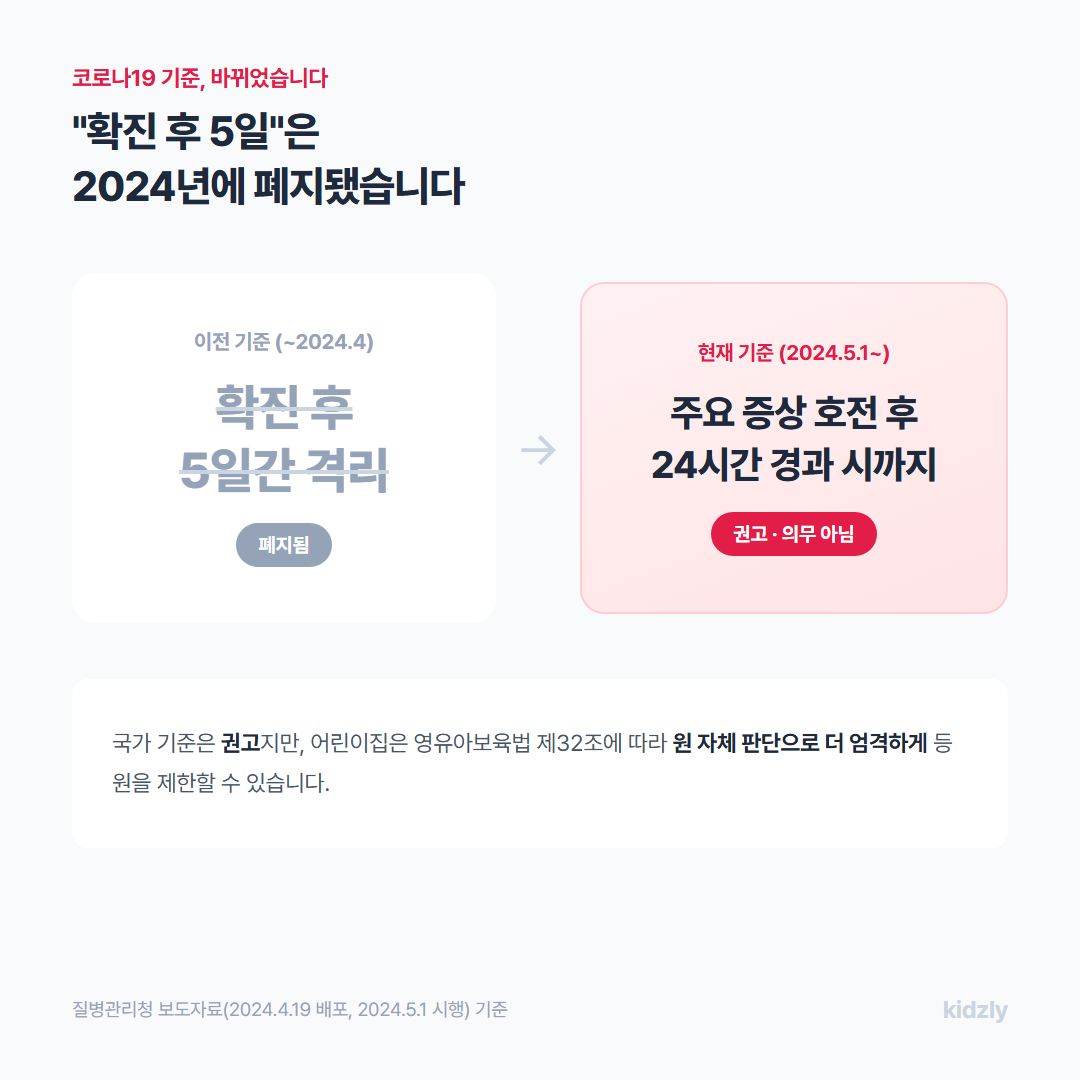
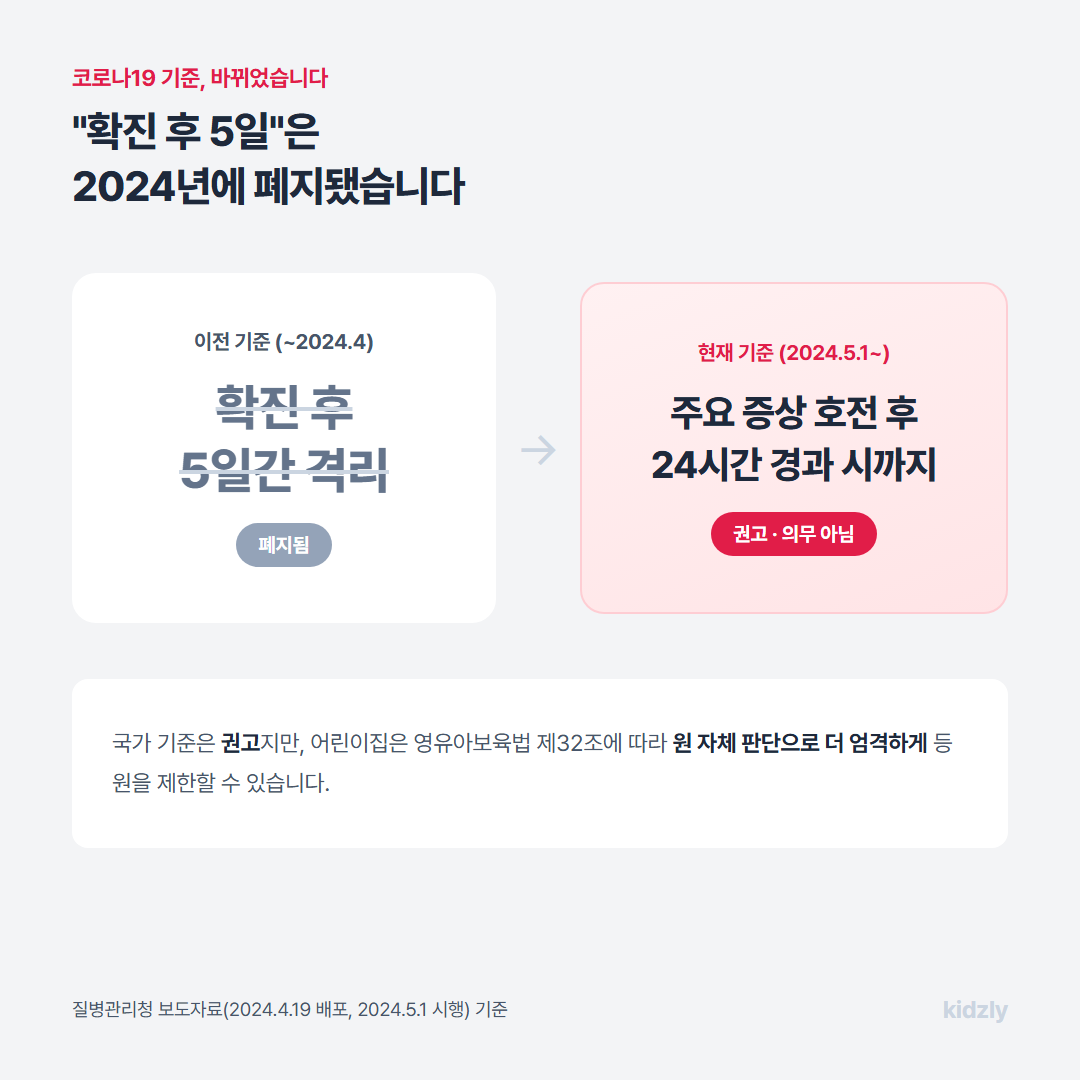
style(blog): 이미지 캔버스 배경을 gray-100으로 조정하고 캡션 명암비 개선
gray-50(#F9FAFB)은 흰색과 밝기 차이가 2%뿐이라 화면·밝기 설정에 따라
이미지 경계가 보이지 않았다. gray-100(#F3F4F6)으로 올려 카드와 표가
하나의 패널로 읽히게 했다.

배경을 올리면서 보조 텍스트 명암비를 함께 점검해 미달 항목을 고쳤다.
슬레이트 400(#94A3B8)은 밝은 캔버스에서 2.3:1로 WCAG AA 기준(4.5:1)에
못 미친다. 부제·캡션·출처 표기를 슬레이트 600(#475569, 6.9:1)으로 올렸고,
폐지된 기준처럼 의도적으로 약하게 보여야 하는 큰 글자는 슬레이트
500(#64748B)까지만 내렸다.

image-html-template.md의 팔레트 규칙도 gray-100 기준으로 갱신하고,
보조 텍스트 최소 명암 기준을 명문화했다.

Changed region(s): [[0.1528, 0.3056, 0.3667, 0.4583], [0.0611, 0.9167, 0.4583, 0.9472]]

diff --git a/.claude/skills/content-creator/references/image-html-template.md b/.claude/skills/content-creator/references/image-html-template.md
@@ -90,7 +90,7 @@
 체크리스트, 순서, 항목 나열에 사용한다.
 
 ```html
-<div class="canvas" style="background: #F9FAFB; padding: 80px;">
+<div class="canvas" style="background: #F3F4F6; padding: 80px;">
   <!-- 타이틀 -->
   <h2 style="font-size: 52px; font-weight: 800; color: #1E293B;
              letter-spacing: -1.5px; margin-bottom: 16px; line-height: 1.2;">
@@ -175,9 +175,10 @@
 
 ## 색상 팔레트 권장
 
-- 배경 밝음(캔버스): `#F9FAFB` (gray-50) — **순백 `#FFFFFF`를 캔버스 배경으로 쓰지 않는다.** 아티클 본문 배경이 흰색이라 이미지 경계가 사라지고, 이미지 안쪽 여백이 글 여백에 겹쳐 표가 안으로 밀려 보인다
+- 배경 밝음(캔버스): `#F3F4F6` (gray-100) — **순백 `#FFFFFF`를 캔버스 배경으로 쓰지 않는다.** gray-50(`#F9FAFB`)은 흰색과 밝기 차이가 2%뿐이라 화면에 따라 경계가 안 보인다. 아티클 본문 배경이 흰색이라 이미지 경계가 사라지고, 이미지 안쪽 여백이 글 여백에 겹쳐 표가 안으로 밀려 보인다
 - 밝은 캔버스 위의 카드·콜아웃: `#FFFFFF` — 캔버스가 gray-50이므로 카드를 흰색으로 두면 자연스럽게 떠 보인다. 반대로 하지 않는다
 - 배경 밝음(보조): `#EEF4FF`
+- 보조 텍스트·캡션: `#475569` (slate-600) 이상으로 어둡게 쓴다. **`#94A3B8`(slate-400)는 밝은 캔버스에서 명암비 2.3:1로 WCAG AA(4.5:1) 미달이다.** 의도적으로 약하게 보여야 하는 텍스트도 `#64748B`(slate-500)까지만 내린다
 - 배경 어두움: `#1E293B`, `#0F172A`
 - 포인트(Blue): `#3B82F6`, `#60A5FA`
 - 텍스트 강: `#1E293B`
